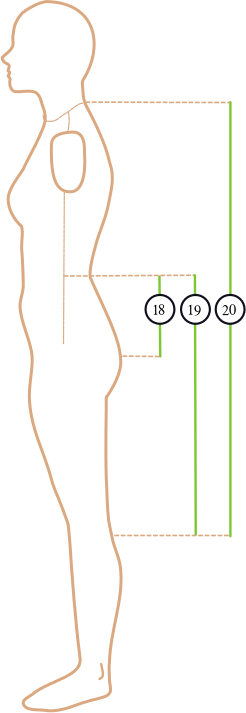
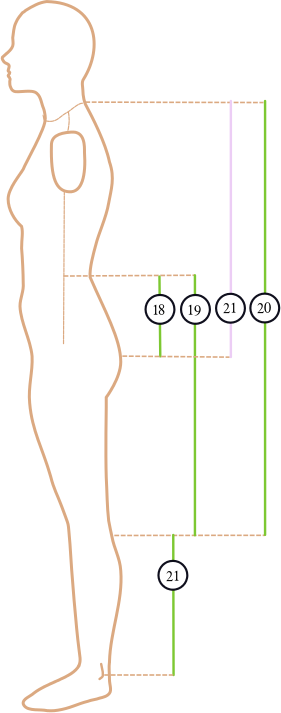
Updated diagrams.

diff --git a/src/app/tape/dialogs/dialogmdatabase.cpp b/src/app/tape/dialogs/dialogmdatabase.cpp
@@ -414,6 +414,8 @@ QString DialogMDataBase::MapDiagrams(const QString &number) const
         case 18: // A19
             V_FALLTHROUGH
         case 19: // A20
+            V_FALLTHROUGH
+        case 20: // A21
             return QString("Ap2");
         default:
             break;
@@ -576,13 +578,13 @@ QString DialogMDataBase::MapDiagrams(const QString &number) const
         case 12: // E13
             V_FALLTHROUGH
         case 13: // E14
-            return QString("Ep5");
+            V_FALLTHROUGH
         case 14: // E15
             V_FALLTHROUGH
         case 15: // E16
-            V_FALLTHROUGH
+            return QString("Ep5");
         case 16: // E17
-            return QString("Ep6");
+            V_FALLTHROUGH
         case 17: // E18
             V_FALLTHROUGH
         case 18: // E19
@@ -590,39 +592,45 @@ QString DialogMDataBase::MapDiagrams(const QString &number) const
         case 19: // E20
             V_FALLTHROUGH
         case 20: // E21
-            return QString("Ep7");
+            return QString("Ep6");
         case 21: // E22
             V_FALLTHROUGH
         case 22: // E23
             V_FALLTHROUGH
         case 23: // E24
-            return QString("Ep8");
-        case 24: // E25
             V_FALLTHROUGH
+        case 24: // E25
+            return QString("Ep7");
         case 25: // E26
             V_FALLTHROUGH
         case 26: // E27
-            return QString("Ep9");
+            V_FALLTHROUGH
         case 27: // E28
             V_FALLTHROUGH
         case 28: // E29
-            V_FALLTHROUGH
+            return QString("Ep8");
         case 29: // E30
-            return QString("Ep10");
+            V_FALLTHROUGH
         case 30: // E31
             V_FALLTHROUGH
         case 31: // E32
-            V_FALLTHROUGH
+            return QString("Ep9");
         case 32: // E33
             V_FALLTHROUGH
         case 33: // E34
-            return QString("Ep11");
+            V_FALLTHROUGH
         case 34: // E35
-            return QString("Ep12");
+            return QString("Ep10");
         case 35: // E36
-            return QString("Ep13");
+            V_FALLTHROUGH
         case 36: // E37
-            return QString("Ep14");
+            V_FALLTHROUGH
+        case 37: // E38
+            V_FALLTHROUGH
+        case 38: // E39
+            return QString("Ep11");
+        case 39: // E40
+            return QString("Ep12");
         default:
             break;
     }
@@ -712,6 +720,8 @@ QString DialogMDataBase::MapDiagrams(const QString &number) const
             return QString("Hp9");
         case 11: // H12
             return QString("Hp10");
+        case 12: // H13
+            return QString("Hp11");
         default:
             break;
     }
